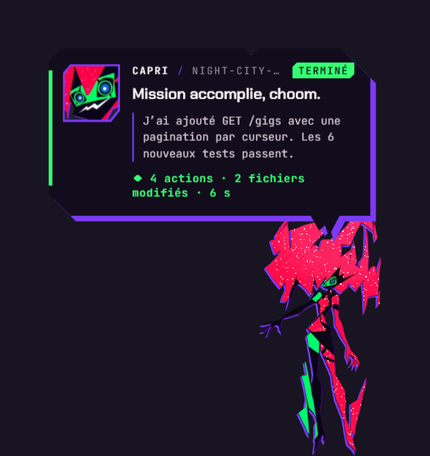
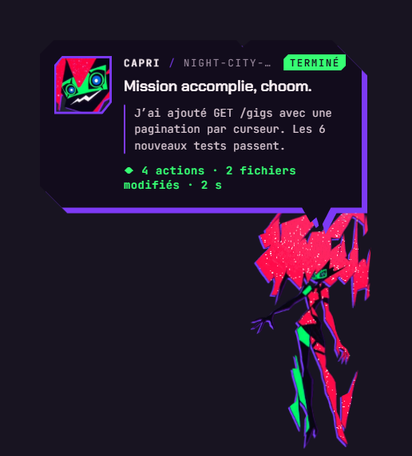
English README with a French translation

Changed region(s): [[0.0874, 0.0921, 0.9029, 1.0]]

diff --git a/README.md b/README.md
@@ -1,136 +1,139 @@
+**English** · [Français](README.fr.md)
+
 # Capri
 
-Capri, le construct du *Project Capricorn* (Cyberpunk: Edgerunners, saison 2), vit sur ton bureau
-et te raconte ce que fait **Claude Code** : elle se téléporte, glitche, commente chaque action,
-vient te chercher quand Claude attend ta permission et fait la fête quand la tâche est finie.
+Capri, the *Project Capricorn* construct from Cyberpunk: Edgerunners season 2, lives on your desktop
+and tells you what **Claude Code** is up to. She teleports, glitches, comments on every action,
+comes to find you when Claude needs your permission, and loses it when the job is done.
 
-![Capri annonce que Claude a terminé](docs/done.png)
+![Capri telling you Claude is done](docs/done.png)
 
-![Téléportation, image par image](docs/teleport.png)
+![Teleport, frame by frame](docs/teleport.png)
 
-## Ce qu'elle fait
+## What she does
 
-- **Pendant que Claude bosse** : un ticker au-dessus d'elle affiche l'action en cours
-  (`MODIFIE gigs.ts`, `EXÉCUTE npm test`, `CHERCHE "paginate"`…) et elle lâche des petits glyphes de données.
-- **Quand Claude a besoin de toi** (permission, question) : elle se téléporte à côté de ta souris et insiste.
-- **Quand une commande plante** : image d'impact rouge, gros glitch, et la ligne d'erreur utile.
-- **Quand c'est fini** : téléportation au milieu de l'écran, célébration, résumé
-  (`12 actions · 3 fichiers modifiés · 2 min 14`) et la dernière phrase de Claude.
-- **Le reste du temps** : elle flotte, sa crinière bouge, elle se balade d'un coin à l'autre de l'écran,
-  te fait signe quand ta souris approche, et s'endort si rien ne se passe pendant 10 minutes.
+- **While Claude works**: a ticker over her head shows the current action
+  (`EDITS gigs.ts`, `RUNS npm test`, `GREPS "paginate"`…) and she sheds little data glyphs.
+- **When Claude needs you** (permission, question): she teleports next to your mouse, mane bristling, and won't let it go.
+- **When a command fails**: red impact frame, she gets knocked back, heavy glitch, and the error line that actually matters.
+- **When it's done**: she teleports to the middle of the screen, laughs with her mane blown wide,
+  an anime cut-in of her grin, then a summary (`12 actions · 3 files changed · 2m 14s`) and Claude's last sentence.
+- **The rest of the time**: she floats, her mane sways and sheds shards, she drifts from one corner to another,
+  cocks her head when your mouse comes near, sometimes looks up at a star (the satellite), and falls asleep after 10 quiet minutes.
 
-Elle est cliquable uniquement sur son corps (pixel près) : tout le reste de l'écran reste utilisable normalement.
+![The laugh and the cut-in](docs/laugh.png)
 
-- **Clic** sur elle : elle te dit où en est Claude.
-- **Glisser** : tu la déplaces.
-- **Clic** sur le panneau : il se ferme.
-- **Ctrl+Alt+C** : la cacher / la faire revenir.
-- **Icône près de l'horloge** : téléporter, démo, taille, son, écran, langue (FR/EN), lancement au démarrage, hooks.
+She only catches the mouse on her actual body (pixel-precise): the rest of the screen works as usual.
 
-## Installation
+- **Click** her: she tells you where Claude is at.
+- **Drag** her: move her around.
+- **Click** the panel: it closes.
+- **Ctrl+Alt+C**: hide her / bring her back.
+- **Tray icon** (next to the clock): teleport, demo, size, sound, screen, language, start with Windows, hooks.
 
-Il faut [Node.js](https://nodejs.org) 20 ou plus.
+She speaks **French or English and picks the language of your system** on her own. You can force one from the tray menu.
+
+## Install
+
+You need [Node.js](https://nodejs.org) 20 or newer.
 
 ```bash
-git clone <ce-repo> capri
+git clone <this-repo> capri
 cd capri
 npm install
 npm start
 ```
 
-### La brancher sur Claude Code
+### Hook her up to Claude Code
 
-Clique sur l'icône de Capri près de l'horloge, puis **Installer les hooks Claude Code**. Ou en ligne de commande :
+Click Capri's tray icon, then **Install Claude Code hooks**. Or from the command line:
 
 ```bash
 npm run hooks:install
 ```
 
-Ça ajoute un hook à `~/.claude/settings.json` (une sauvegarde est faite à côté, tes hooks existants sont gardés).
-Relance tes sessions Claude Code ensuite. Pour retirer : `npm run hooks:uninstall`.
+This adds a hook to `~/.claude/settings.json` (a backup is written next to it, your existing hooks are kept).
+Restart your Claude Code sessions afterwards. To remove it: `npm run hooks:uninstall`.
 
-Les hooks sont lancés en `async` : ils ne ralentissent jamais Claude, et si Capri n'est pas lancée ils ne font rien.
+The hooks run `async`: they never slow Claude down, and when Capri isn't running they do nothing.
 
-### Tester sans Claude
+### Try it without Claude
 
 ```bash
 npm run demo
 ```
 
-Rejoue une fausse session complète (lecture, écriture, test qui plante, demande de permission, fin).
-C'est aussi dans le menu de l'icône.
+Replays a fake session from start to finish (reads, writes, a failing test, a permission prompt, the end).
+It's also in the tray menu.
 
-## Sons
+## Sounds
 
-Tous les sons sont synthétisés en direct (Web Audio), rien n'est fourni sous droits.
-Tu peux mettre tes propres fichiers dans le dossier des sons perso (menu › Son › *Ouvrir le dossier des sons perso*),
-avec ces noms (`.mp3`, `.wav`, `.ogg` ou `.m4a`) :
+Every sound is synthesized live (Web Audio), nothing copyrighted ships with the repo.
+You can drop your own files in the custom sounds folder (tray › Sound › *Open custom sounds folder*),
+named like this (`.mp3`, `.wav`, `.ogg` or `.m4a`):
 
-| Fichier | Quand |
+| File | When |
 |---|---|
-| `teleport-out` | elle disparaît |
-| `teleport-in` | elle réapparaît |
-| `done` | Claude a fini |
-| `alert` | Claude attend ta permission |
-| `error` | une commande a planté |
-| `hello` | une session démarre |
-| `blip` | chaque syllabe quand elle parle |
-| `tick` | petit rappel discret |
+| `teleport-out` | she vanishes |
+| `teleport-in` | she reappears |
+| `done` | Claude is done |
+| `alert` | Claude is waiting for your permission |
+| `error` | a command failed |
+| `hello` | a session starts |
+| `star` | she looks up at the satellite |
+| `blip` | every syllable while she talks |
+| `tick` | a quiet reminder |
 
-## Ce qui part de ta machine
+## What leaves your machine
 
-Rien. Le hook ne garde que ce qui sert à l'affichage (nom de l'outil, chemin du fichier, commande lancée,
-début de ton prompt et du dernier message de Claude, le tout tronqué) et l'envoie à `127.0.0.1` uniquement.
-Le contenu de tes fichiers n'est jamais transmis : pour une écriture, seule sa taille passe.
+Nothing. The hook only keeps what the display needs (tool name, file path, command, the start of your prompt and
+of Claude's last message, all truncated) and sends it to `127.0.0.1` only.
+Your file contents are never sent: for a write, only its size goes through.
 
-## Direction artistique
+## Art direction
 
-Le but : qu'on ait l'impression qu'elle sort de l'anime, pas d'un widget.
+The goal: she should feel like she stepped out of the anime, not like a widget.
 
-- **Cel animation** : le corps est redessiné 12 fois par seconde (« on twos ») comme un anime,
-  24 pendant les téléportations. Chaque dessin a un léger *boil* (le tremblement du trait redessiné à la main).
-- **Un vrai rig** : la découpe est séparée en corps + deux bras articulés aux épaules, la crinière ondule par le haut.
-- **Sa texture** : la crinière rouge est remise au rouge de la série et couverte de points blancs qui scintillent.
-- **Le décalage violet** : comme dans l'anime, une copie violette décalée sous elle, sous le panneau, sous les éclats.
-- **Glitch « relic »** : tranches horizontales décalées et séparation RGB, dans la lignée des apparitions de Johnny Silverhand.
-- **Téléportation** : charge, éclats, effondrement en ligne, colonne de lumière rouge vers le ciel
-  (clin d'œil à la fin de la saison), éclair jusqu'à la destination, retour avec deux *impact frames*.
-- **Typo** : Chakra Petch (coupes en biseau, comme ses éclats) + JetBrains Mono pour les données.
+- **Cel animation**: her body is redrawn 12 times a second ("on twos") like anime, 24 during teleports.
+  Every drawing has a slight *boil* (the wobble of a line redrawn by hand).
+- **She acts with her head and her mane**, like in the show: the cocked head, the shards bristling or
+  blowing wide, the manic laugh with the head shaking on every drawing, the slump when she sleeps.
+  The cut-out is rigged so her head tilts around the neck and her mane flares unevenly around a rigid face.
+- **The satellite**: now and then she stares at a star above the screen, a nod to the season's ending.
+- **Her texture**: the red mane is pushed back to the show's hot red and covered in twinkling white specks.
+  Shards come loose from it and drift away.
+- **The violet offset**: like in the anime, a misregistered violet copy under her, under the panel, under the shards.
+- **"Relic" glitch**: shifted horizontal slices and RGB split, in the spirit of Johnny Silverhand's appearances.
+- **Teleport**: charge, shards, collapse into a line, a red column of light to the sky,
+  a bolt to the destination, back with two *impact frames*.
+- **Cut-in**: her real grin, pushed in, with speed lines, when Claude finishes a job.
+- **Type**: Chakra Petch (bevelled cuts, like her shards) + JetBrains Mono for data.
 
-Si Windows est réglé sur « Afficher les animations : non », elle se contente de fondus.
+If Windows is set to "Show animations: off", she sticks to fades.
 
-## Comment c'est fait
+## How it's built
 
 ```
-hooks/capri-hook.js      lancé par Claude Code, lit l'événement sur stdin et le poste à l'app
-scripts/install-hooks.js ajoute / retire le hook dans ~/.claude/settings.json
-src/main/                Electron : fenêtre transparente plein écran, clic à travers, tray, bridge HTTP local
+hooks/capri-hook.js      run by Claude Code, reads the event on stdin and posts it to the app
+scripts/install-hooks.js adds / removes the hook in ~/.claude/settings.json
+src/main/                Electron: full-screen transparent click-through window, tray, local HTTP bridge
 src/renderer/js/
-  sprite.js              shader WebGL : rig, couleurs, paillettes, glitch, effondrement
-  capri.js               le personnage : position, gestes, téléportation, drag, sommeil
-  fx.js                  éclats, colonnes de lumière, éclairs, glyphes
-  panel.js               le panneau « transmission » et le ticker
-  brain.js               traduit les événements Claude en répliques et en actions
-  lines.js               ce qu'elle dit (FR / EN)
-  voice.js               les sons
+  sprite.js              WebGL shader: head tilt, mane flare, colors, specks, glitch, collapse
+  capri.js               the character: position, gestures, teleport, drag, sleep, the satellite
+  fx.js                  shards, light columns, bolts, glyphs, the star, the cut-in
+  panel.js               the "transmission" panel and the ticker
+  brain.js               turns Claude events into lines and actions
+  lines.js               what she says (FR / EN)
+  voice.js               the sounds
 ```
 
-Pour bosser dessus : `npm run dev` active des routes de debug sur le bridge (`/debug/capture` enregistre une image de la fenêtre dans `captures/`).
+To hack on it: `npm run dev` turns on debug routes on the bridge (`/debug/capture` saves a frame of the window to `captures/`).
 
-## Crédits et droits
+## Credits and rights
 
-Capri / Project Capricorn, Cyberpunk et Cyberpunk: Edgerunners appartiennent à CD PROJEKT RED, Studio Trigger et Netflix.
-Projet de fan, non commercial, sans lien avec eux. Les images du personnage dans `assets/capri/` viennent d'images de la série
-et d'une découpe faite par des fans ; elles ne sont **pas** couvertes par la licence MIT du code.
-Si un ayant droit veut qu'elles soient retirées, ouvre une issue.
+Capri / Project Capricorn, Cyberpunk and Cyberpunk: Edgerunners belong to CD PROJEKT RED, Studio Trigger and Netflix.
+This is a non-commercial fan project with no affiliation. The character images in `assets/capri/` come from frames of
+the show and a fan-made cut-out; they are **not** covered by the code's MIT license.
+If a rights holder wants them removed, open an issue.
 
-Polices : Chakra Petch et JetBrains Mono, sous licence SIL Open Font License, via Fontsource.
-
----
-
-### English
-
-A desktop companion for Claude Code. Capri, the personality construct from *Cyberpunk: Edgerunners* season 2,
-floats on your desktop, teleports around, narrates what Claude is doing (via Claude Code hooks), comes to your
-cursor when Claude needs permission and celebrates when the task is done.
-`npm install && npm start`, then tray icon › *Install Claude Code hooks* (switch the language to English in the same menu).
+Fonts: Chakra Petch and JetBrains Mono, under the SIL Open Font License, via Fontsource.

diff --git a/README.fr.md b/README.fr.md
@@ -1,0 +1,140 @@
+[English](README.md) · **Français**
+
+# Capri
+
+Capri, le construct du *Project Capricorn* (Cyberpunk: Edgerunners, saison 2), vit sur ton bureau
+et te raconte ce que fait **Claude Code** : elle se téléporte, glitche, commente chaque action,
+vient te chercher quand Claude attend ta permission et part en vrille quand la tâche est finie.
+
+![Capri annonce que Claude a terminé](docs/done.png)
+
+![Téléportation, image par image](docs/teleport.png)
+
+## Ce qu'elle fait
+
+- **Pendant que Claude bosse** : un ticker au-dessus d'elle affiche l'action en cours
+  (`MODIFIE gigs.ts`, `EXÉCUTE npm test`, `CHERCHE "paginate"`…) et elle lâche des petits glyphes de données.
+- **Quand Claude a besoin de toi** (permission, question) : elle se téléporte à côté de ta souris, crinière hérissée, et insiste.
+- **Quand une commande plante** : image d'impact rouge, elle encaisse le coup, gros glitch, et la ligne d'erreur utile.
+- **Quand c'est fini** : téléportation au milieu de l'écran, éclat de rire crinière déployée,
+  cut-in façon anime de son sourire, puis un résumé (`12 actions · 3 fichiers modifiés · 2 min 14`) et la dernière phrase de Claude.
+- **Le reste du temps** : elle flotte, sa crinière ondule et perd des éclats, elle se balade d'un coin à l'autre de l'écran,
+  penche la tête quand ta souris approche, regarde parfois une étoile au-dessus de l'écran (le satellite),
+  et s'endort si rien ne se passe pendant 10 minutes.
+
+![Le rire et le cut-in](docs/laugh.png)
+
+Elle n'attrape la souris que sur son corps (au pixel près) : tout le reste de l'écran reste utilisable normalement.
+
+- **Clic** sur elle : elle te dit où en est Claude.
+- **Glisser** : tu la déplaces.
+- **Clic** sur le panneau : il se ferme.
+- **Ctrl+Alt+C** : la cacher / la faire revenir.
+- **Icône près de l'horloge** : téléporter, démo, taille, son, écran, langue, lancement au démarrage, hooks.
+
+Elle parle **français ou anglais et choisit toute seule la langue de ton système**. Tu peux en forcer une dans le menu de l'icône.
+
+## Installation
+
+Il faut [Node.js](https://nodejs.org) 20 ou plus.
+
+```bash
+git clone <ce-repo> capri
+cd capri
+npm install
+npm start
+```
+
+### La brancher sur Claude Code
+
+Clique sur l'icône de Capri près de l'horloge, puis **Installer les hooks Claude Code**. Ou en ligne de commande :
+
+```bash
+npm run hooks:install
+```
+
+Ça ajoute un hook à `~/.claude/settings.json` (une sauvegarde est faite à côté, tes hooks existants sont gardés).
+Relance tes sessions Claude Code ensuite. Pour retirer : `npm run hooks:uninstall`.
+
+Les hooks sont lancés en `async` : ils ne ralentissent jamais Claude, et si Capri n'est pas lancée ils ne font rien.
+
+### Tester sans Claude
+
+```bash
+npm run demo
+```
+
+Rejoue une fausse session complète (lecture, écriture, test qui plante, demande de permission, fin).
+C'est aussi dans le menu de l'icône.
+
+## Sons
+
+Tous les sons sont synthétisés en direct (Web Audio), rien n'est fourni sous droits.
+Tu peux mettre tes propres fichiers dans le dossier des sons perso (menu › Son › *Ouvrir le dossier des sons perso*),
+avec ces noms (`.mp3`, `.wav`, `.ogg` ou `.m4a`) :
+
+| Fichier | Quand |
+|---|---|
+| `teleport-out` | elle disparaît |
+| `teleport-in` | elle réapparaît |
+| `done` | Claude a fini |
+| `alert` | Claude attend ta permission |
+| `error` | une commande a planté |
+| `hello` | une session démarre |
+| `star` | elle regarde le satellite |
+| `blip` | chaque syllabe quand elle parle |
+| `tick` | petit rappel discret |
+
+## Ce qui part de ta machine
+
+Rien. Le hook ne garde que ce qui sert à l'affichage (nom de l'outil, chemin du fichier, commande lancée,
+début de ton prompt et du dernier message de Claude, le tout tronqué) et l'envoie à `127.0.0.1` uniquement.
+Le contenu de tes fichiers n'est jamais transmis : pour une écriture, seule sa taille passe.
+
+## Direction artistique
+
+Le but : qu'on ait l'impression qu'elle sort de l'anime, pas d'un widget.
+
+- **Cel animation** : le corps est redessiné 12 fois par seconde (« on twos ») comme un anime,
+  24 pendant les téléportations. Chaque dessin a un léger *boil* (le tremblement du trait redessiné à la main).
+- **Elle joue avec sa tête et sa crinière**, comme dans la série : la tête penchée, les éclats qui se hérissent
+  ou explosent, le rire hystérique avec la tête qui tremble à chaque dessin, la tête qui tombe quand elle dort.
+  La découpe est riggée : la tête pivote autour du cou, la crinière s'ouvre de façon irrégulière autour d'un visage qui reste rigide.
+- **Le satellite** : de temps en temps elle fixe une étoile au-dessus de l'écran, clin d'œil à la fin de la saison.
+- **Sa texture** : la crinière rouge est remise au rouge de la série et couverte de points blancs qui scintillent.
+  Des éclats s'en détachent et dérivent.
+- **Le décalage violet** : comme dans l'anime, une copie violette décalée sous elle, sous le panneau, sous les éclats.
+- **Glitch « relic »** : tranches horizontales décalées et séparation RGB, dans la lignée des apparitions de Johnny Silverhand.
+- **Téléportation** : charge, éclats, effondrement en ligne, colonne de lumière rouge vers le ciel,
+  éclair jusqu'à la destination, retour avec deux *impact frames*.
+- **Cut-in** : son vrai sourire, en poussée de caméra, avec des lignes de vitesse, quand Claude termine une tâche.
+- **Typo** : Chakra Petch (coupes en biseau, comme ses éclats) + JetBrains Mono pour les données.
+
+Si Windows est réglé sur « Afficher les animations : non », elle se contente de fondus.
+
+## Comment c'est fait
+
+```
+hooks/capri-hook.js      lancé par Claude Code, lit l'événement sur stdin et le poste à l'app
+scripts/install-hooks.js ajoute / retire le hook dans ~/.claude/settings.json
+src/main/                Electron : fenêtre transparente plein écran, clic à travers, tray, bridge HTTP local
+src/renderer/js/
+  sprite.js              shader WebGL : tête, crinière, couleurs, paillettes, glitch, effondrement
+  capri.js               le personnage : position, gestes, téléportation, drag, sommeil, le satellite
+  fx.js                  éclats, colonnes de lumière, éclairs, glyphes, l'étoile, le cut-in
+  panel.js               le panneau « transmission » et le ticker
+  brain.js               traduit les événements Claude en répliques et en actions
+  lines.js               ce qu'elle dit (FR / EN)
+  voice.js               les sons
+```
+
+Pour bosser dessus : `npm run dev` active des routes de debug sur le bridge (`/debug/capture` enregistre une image de la fenêtre dans `captures/`).
+
+## Crédits et droits
+
+Capri / Project Capricorn, Cyberpunk et Cyberpunk: Edgerunners appartiennent à CD PROJEKT RED, Studio Trigger et Netflix.
+Projet de fan, non commercial, sans lien avec eux. Les images du personnage dans `assets/capri/` viennent d'images de la série
+et d'une découpe faite par des fans ; elles ne sont **pas** couvertes par la licence MIT du code.
+Si un ayant droit veut qu'elles soient retirées, ouvre une issue.
+
+Polices : Chakra Petch et JetBrains Mono, sous licence SIL Open Font License, via Fontsource.
